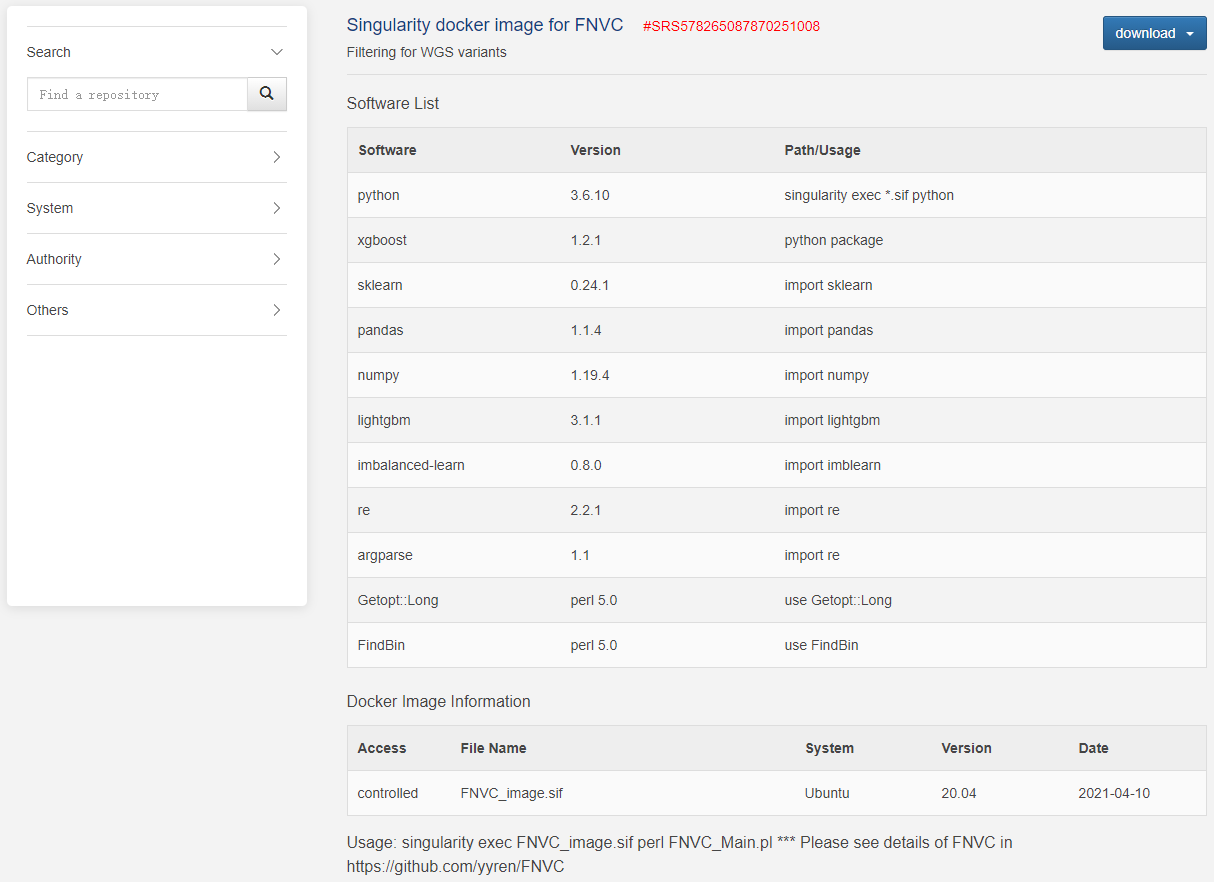
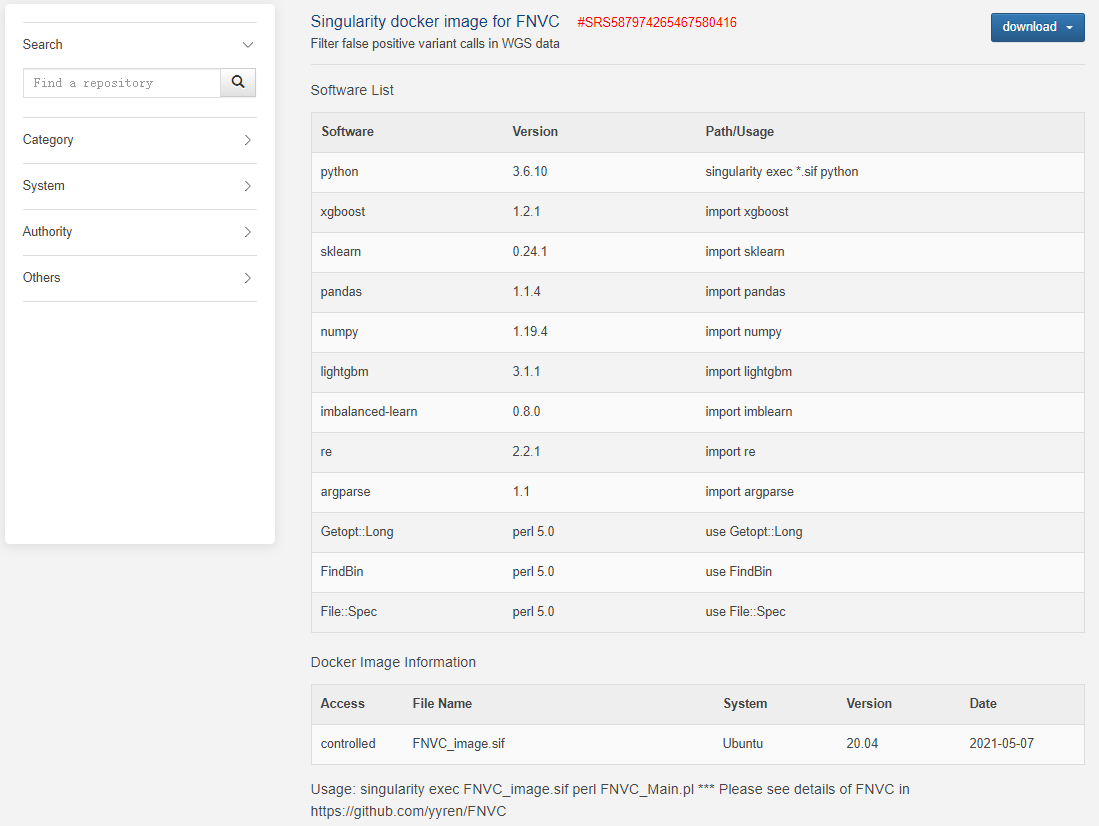
update

diff --git a/Computing Enverionment/README.md b/Computing Enverionment/README.md
@@ -12,7 +12,7 @@ http://bmap.sjtu.edu.cn/softstorage/details/21
 
 Docker image for FNVC
 ------------
-http://bmap.sjtu.edu.cn/softstorage/details/22
+http://bmap.sjtu.edu.cn/softstorage/details/23
 
 ![](../Pictures/FNVC_docker_image.png)<br>
 
@@ -40,6 +40,7 @@ Perl Requirements
 ------------
 * perl v5.0
 * Getopt::Long
+* File::Spec
 * FindBin
 * other customized models (###.pm) are released in FNVC folder
 

diff --git a/README.md b/README.md
@@ -70,7 +70,7 @@ http://bmap.sjtu.edu.cn/softstorage/details/21
 
 
 ### Docker image for FNVC
-http://bmap.sjtu.edu.cn/softstorage/details/22
+http://bmap.sjtu.edu.cn/softstorage/details/23
 
 ![](Pictures/FNVC_docker_image.png)<br>
 
